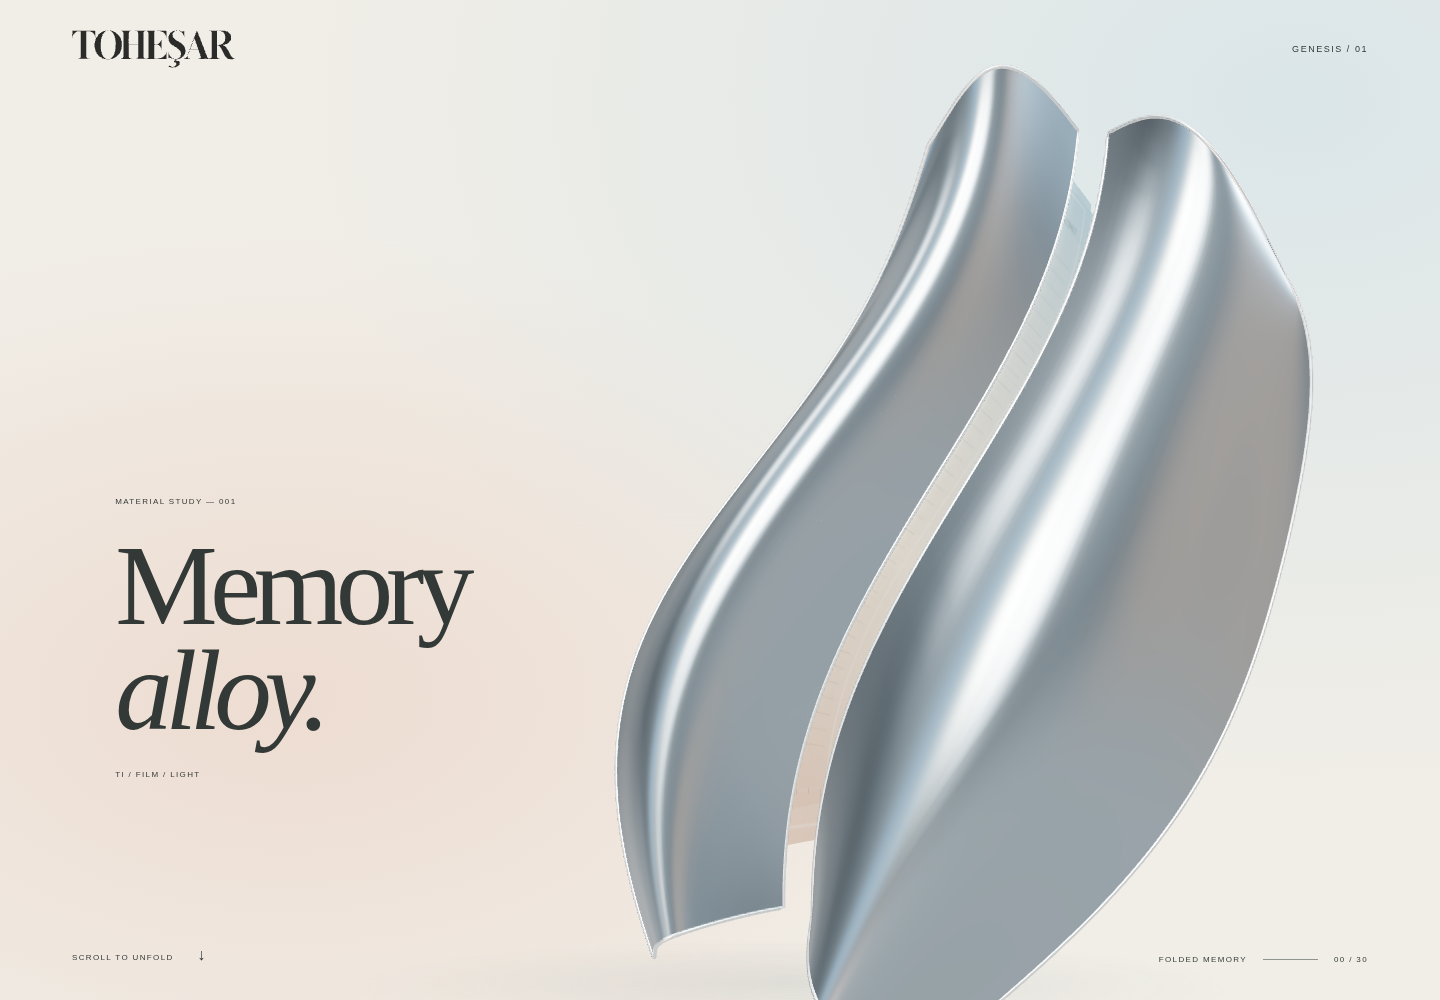
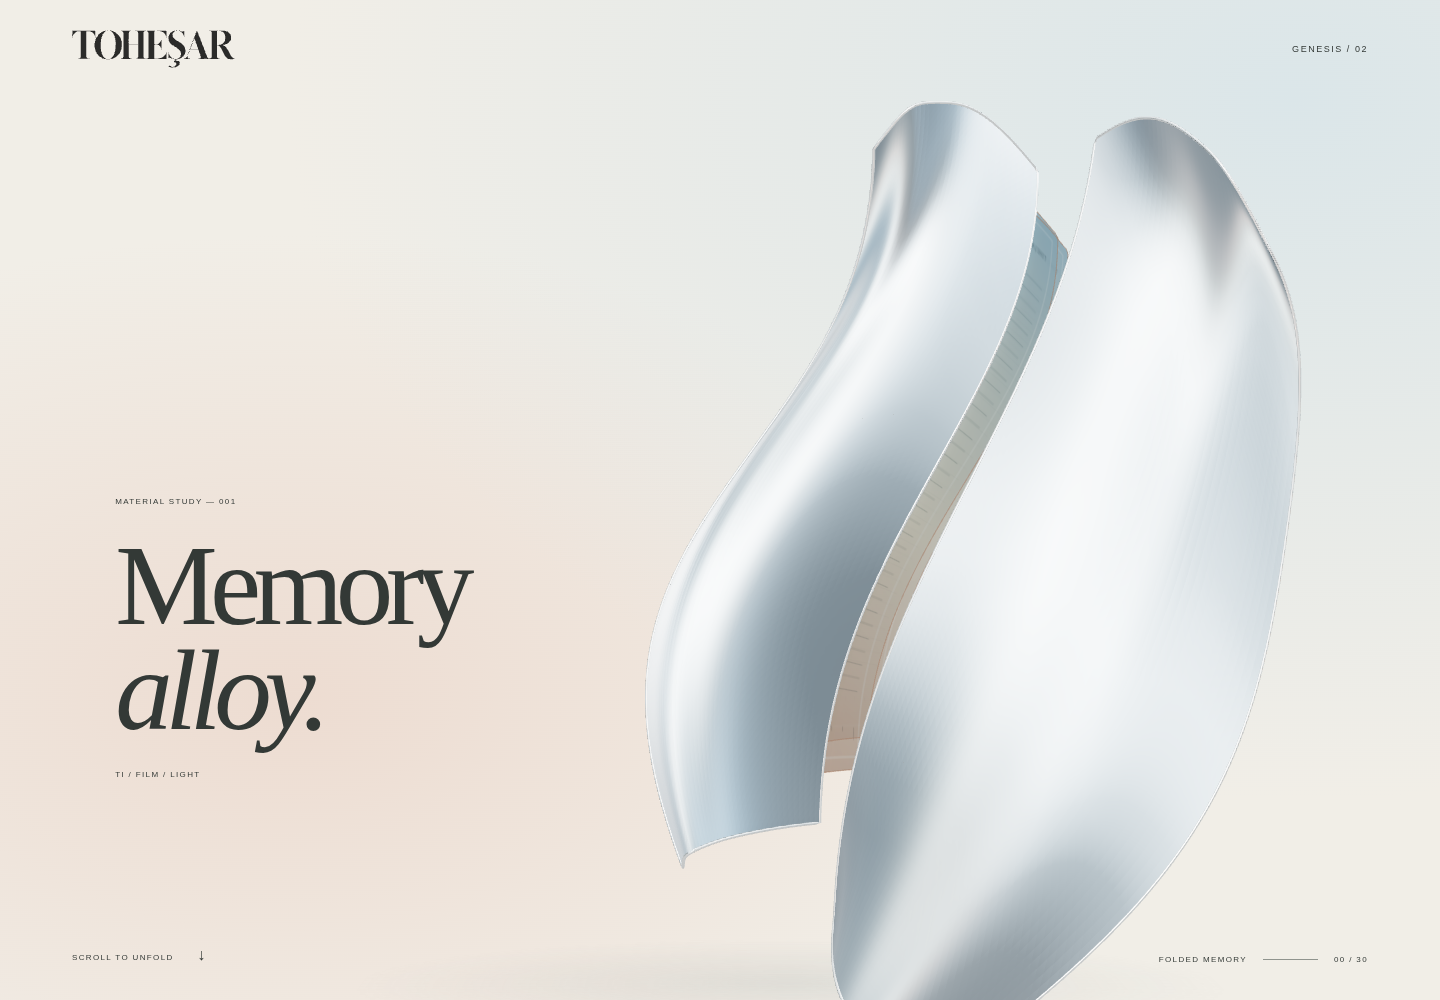
feat(genesis): C02 Scene 01-02 art direction refinement

Changed region(s): [[0.4062, 0.062, 0.9375, 1.0]]

diff --git a/genesis-01/src.js b/genesis-01/src.js
@@ -26,27 +26,37 @@ const room=new RoomEnvironment();
 const card=(color,x,y,z,sx,sy)=>{const m=new THREE.Mesh(new THREE.PlaneGeometry(sx,sy),new THREE.MeshBasicMaterial({color,side:THREE.DoubleSide}));m.position.set(x,y,z);m.lookAt(0,0,0);room.add(m);};
 card(0xc1e4ff,-3,2,2,3,7);card(0xf3c9ac,4,-1,1,2,6);card(0x252a30,1,1,-3,1.8,7);
 const env=pmrem.fromScene(room,.04);scene.environment=env.texture;room.dispose();pmrem.dispose();
-scene.add(new THREE.HemisphereLight(0xdceefa,0xd7b7a2,2.0));
-const key=new THREE.DirectionalLight(0xfff5e6,3.8);key.position.set(-3,5,6);scene.add(key);
-const sky=new THREE.DirectionalLight(0xb9d8ef,2.6);sky.position.set(4,2,-1);scene.add(sky);
-const peach=new THREE.DirectionalLight(0xf6baa0,1.3);peach.position.set(-2,-3,3);scene.add(peach);
+scene.add(new THREE.HemisphereLight(0xdceefa,0xd7b7a2,.75));
+const key=new THREE.DirectionalLight(0xfff5e6,2.2);key.position.set(-3,5,6);scene.add(key);
+const sky=new THREE.DirectionalLight(0xb9d8ef,1.4);sky.position.set(4,2,-1);scene.add(sky);
+const peach=new THREE.DirectionalLight(0xf6baa0,.8);peach.position.set(-2,-3,3);scene.add(peach);
 const sculpture=new THREE.Group();scene.add(sculpture);sculpture.rotation.set(-.09,-.32,-.18);
-const titanium=new THREE.MeshPhysicalMaterial({color:0x98a6ae,metalness:.93,roughness:.31,clearcoat:.25,clearcoatRoughness:.3,side:THREE.DoubleSide});
+const titanium=new THREE.MeshPhysicalMaterial({color:0x8a9ba5,metalness:.94,roughness:.38,anisotropy:.55,clearcoat:.2,clearcoatRoughness:.3,side:THREE.DoubleSide});
 const edgeMaterial=new THREE.MeshStandardMaterial({color:0xdde3e4,metalness:1,roughness:.12});
-const films=[];const morphs=[];
+// Deterministic hairline finish; no external texture or noise animation.
+const finish=new Uint8Array(256*256*4);
+for(let y=0;y<256;y++)for(let x=0;x<256;x++){
+ const i=(y*256+x)*4,n=126+22*Math.sin(x*17.13)+8*Math.sin(x*3.7+y*.19);
+ finish[i]=finish[i+1]=finish[i+2]=n;finish[i+3]=255;
+}
+const brushed=new THREE.DataTexture(finish,256,256);brushed.wrapS=brushed.wrapT=THREE.RepeatWrapping;brushed.repeat.set(3,1);brushed.needsUpdate=true;
+titanium.bumpMap=brushed;titanium.bumpScale=.008;
+const films=[];const morphs=[];const filmEdges=[];
 
 // s: left/right folio, u: spine→cut edge, v: foot→crown, open: authored morph target.
 function folio(s,u,v,open=0,layer=-1){
  const t=v*2-1;
- const w=s<0 ? 1.05 : 1.60;
+ const w=s<0 ? .98 : 1.65;
  const crown=s<0 ? .12 : -.30;
  const width=w*(.42+.64*Math.sin(v*Math.PI*.92)+.12*Math.sin(v*7));
- const seam=.35*Math.sin(t*2.1)+.10*t;
+ const seam=.25*Math.sin(t*2.1)+.10*t;
  let x=seam+s*(.085+width*u);
  let y=t*2.26 + crown*u + .20*Math.sin(u*Math.PI)*Math.sin(v*2.4) - .38*u*u*(1-v) - .42*u*u*Math.pow(v,5);
  // A pressed ridge and broad concave face: a folio with material memory.
  let z=.64*Math.sin(u*Math.PI*1.12)+.48*u*u+.32*Math.sin(v*4+u*2)-.12*t;
  z+=s<0 ? .18*u : -.19*u;
+ z+=.14*Math.tanh((u-.65)*9)+.32*Math.pow(v,5)*u;
+ if(s<0){y=y*.85+.13;x-=.13*Math.pow(v,4);}
  x+=s*open*(.24+u*.88);z-=open*(u*.85);y+=open*s*u*.14;
  if(layer>=0){
   x=seam+(x-seam)*(.86-layer*.045);
@@ -71,7 +81,7 @@ function border(s,open){
  for(let i=1;i<=44;i++)pts.push(folio(s,i/44,1,open));
  for(let j=91;j>=0;j--)pts.push(folio(s,1,j/92,open));
  for(let i=43;i>=0;i--)pts.push(folio(s,i/44,0,open));
- return new THREE.TubeGeometry(new THREE.CatmullRomCurve3(pts,true),320,.012,5,true);
+ return new THREE.TubeGeometry(new THREE.CatmullRomCurve3(pts,true),256,.009,5,true);
 }
 for(const s of [-1,1]){
  morphMesh(grid((u,v)=>folio(s,u,v)),grid((u,v)=>folio(s,u,v,1)),titanium);
@@ -81,7 +91,7 @@ for(const s of [-1,1]){
 function filmTexture(n){
  const c=document.createElement('canvas');c.width=512;c.height=1024;const ctx=c.getContext('2d');
  const g=ctx.createLinearGradient(0,0,512,1024);g.addColorStop(0,'#8faebf');g.addColorStop(.48,'#e2d6c4');g.addColorStop(1,'#c58e78');ctx.fillStyle=g;ctx.fillRect(0,0,512,1024);
- ctx.strokeStyle='rgba(76,95,102,.32)';ctx.lineWidth=1;
+ ctx.strokeStyle='rgba(45,67,75,.43)';ctx.lineWidth=1;
  for(let i=0;i<34;i++){const y=130+i*23;ctx.beginPath();ctx.moveTo(35,y);ctx.lineTo(470-(i%5)*13,y);ctx.stroke();}
  ctx.strokeStyle='rgba(255,255,255,.7)';ctx.strokeRect(22,22,468,980);
  ctx.fillStyle='rgba(61,76,80,.65)';ctx.font='14px monospace';ctx.fillText(`TOHEŞAR  /  MATERIAL ${String(n+1).padStart(2,'0')}`,39,75);
@@ -89,13 +99,19 @@ function filmTexture(n){
  const tex=new THREE.CanvasTexture(c);tex.colorSpace=THREE.SRGBColorSpace;return tex;
 }
 for(let k=0;k<5;k++){
- const mat=new THREE.MeshPhysicalMaterial({map:filmTexture(k),color:0xf0f3ee,metalness:.08,roughness:.24,transmission:.24,thickness:.055,ior:1.33,transparent:true,opacity:.86,side:THREE.DoubleSide,depthWrite:false});
+ const mat=new THREE.MeshPhysicalMaterial({map:filmTexture(k),color:0xb9c5c6,metalness:.08,roughness:.32,envMapIntensity:.45,transmission:.12,thickness:.055,ior:1.33,transparent:true,opacity:.86,side:THREE.DoubleSide,depthWrite:false});
+ mat.forceSinglePass=true;
  const s=k%2===0?1:-1;
  const closed=grid((u,v)=>folio(s,u,v,0,k),24,56);
- const opened=grid((u,v)=>{
+ const openPoint=(u,v)=>{
   const p=folio(s,u,v,1,k);p.x=s*(.14+k*.035+u*(1.8+k*.14));p.z=-.6-k*1.3-u*.9+Math.sin(u*Math.PI)*.16;p.y*=1.15;return p;
- },24,56);
+ };
+ const opened=grid(openPoint,24,56);
  const mesh=morphMesh(closed,opened,mat);mesh.renderOrder=5-k;films.push(mesh);
+ const perimeter=fn=>{const pts=[];for(let j=0;j<=48;j++)pts.push(fn(0,j/48));for(let i=1;i<=24;i++)pts.push(fn(i/24,1));for(let j=47;j>=0;j--)pts.push(fn(1,j/48));for(let i=23;i>=0;i--)pts.push(fn(i/24,0));return new THREE.TubeGeometry(new THREE.CatmullRomCurve3(pts,true),192,.004,3,true);};
+ const a=perimeter((u,v)=>folio(s,u,v,0,k)),b=perimeter(openPoint);
+ a.morphAttributes.position=[b.attributes.position];a.morphAttributes.normal=[b.attributes.normal];
+ const rim=new THREE.Mesh(a,new THREE.MeshBasicMaterial({color:k%2?0x94705e:0x6b8e9f,transparent:true,opacity:.5}));sculpture.add(rim);filmEdges.push(rim);
 }
 // Wide, diffuse contact shadow; no expensive realtime shadow pass.
 const shadowCanvas=document.createElement('canvas');shadowCanvas.width=128;shadowCanvas.height=128;
@@ -114,10 +130,10 @@ function request(){if(!raf&&!document.hidden&&!contextLost)raf=requestAnimationF
 function pose(p){
  const opening=ease(.17,.235,p),split=ease(.23,.27,p),pass=ease(.27,.30,p);
  for(let i=0;i<4;i++)morphs[i].morphTargetInfluences[0]=opening;
- for(const mesh of films)mesh.morphTargetInfluences[0]=split;
+ for(const mesh of [...films,...filmEdges])mesh.morphTargetInfluences[0]=split;
  // The artifact stays in place. The camera crosses its z-depth at the final beat.
- sculpture.position.set(mobile?.82:1.22,mobile?1.0:.05,0);
- sculpture.scale.setScalar(mobile?.86:1);
+ sculpture.position.set(mobile?.66:1.22,mobile?.62:.05,0);
+ sculpture.scale.setScalar(mobile?.84:1);
  sculpture.rotation.y=THREE.MathUtils.lerp(-.32,0,split);
  sculpture.rotation.z=THREE.MathUtils.lerp(-.18,-.035,split);
  const startZ=mobile?10.2:9.5;
@@ -129,7 +145,8 @@ function pose(p){
  document.querySelector('#phase').textContent=p<.17?'FOLDED MEMORY':p<.23?'OPENING':p<.27?'LAYER SEPARATION':'WITHIN THE LAYERS';
  document.querySelector('#percent').textContent=`${String(Math.round(p*100)).padStart(2,'0')} / 30`;
 }
-function draw(){raf=0;progress+= (target-progress)*.15;if(Math.abs(target-progress)<.00002)progress=target;pose(progress);renderer.render(scene,camera);if(progress!==target)request();}
+let lastFrame=0;
+function draw(now){raf=0;const dt=lastFrame?Math.min((now-lastFrame)/1000,.1):1/60;lastFrame=now;progress+= (target-progress)*(1-Math.exp(-12*dt));if(Math.abs(target-progress)<.00002)progress=target;pose(progress);renderer.render(scene,camera);if(progress!==target)request();}
 addEventListener('scroll',onScroll,{passive:true});addEventListener('resize',measure);visualViewport?.addEventListener('resize',measure);
 reduced.addEventListener('change',onScroll);document.addEventListener('visibilitychange',request);
 renderer.domElement.addEventListener('webglcontextlost',e=>{e.preventDefault();contextLost=true;fallback.hidden=false;});

diff --git a/genesis-01/index.html b/genesis-01/index.html
@@ -1,15 +1,15 @@
 <!doctype html>
 <html lang="en">
-<head><meta charset="UTF-8"><meta name="viewport" content="width=device-width, initial-scale=1, viewport-fit=cover"><meta name="theme-color" content="#f1eee7"><title>TOHEŞAR — Genesis 01</title><link rel="stylesheet" href="/style.css"></head>
+<head><meta charset="UTF-8"><meta name="viewport" content="width=device-width, initial-scale=1, viewport-fit=cover"><meta name="theme-color" content="#f1eee7"><title>TOHEŞAR — Genesis 02</title><link rel="stylesheet" href="/style.css"></head>
 <body>
 <main aria-label="Memory Alloy, an interactive sculpture">
 <div id="stage" role="img" aria-label="An asymmetric folded titanium archive opens into five translucent memory layers."></div>
-<header><img src="./assets/wordmark.svg" width="164" height="38" alt="TOHEŞAR"><span>GENESIS / 01</span></header>
+<header><img src="./assets/wordmark.svg" width="164" height="38" alt="TOHEŞAR"><span>GENESIS / 02</span></header>
 <div class="caption"><span class="eyebrow">MATERIAL STUDY — 001</span><h1>Memory<br><em>alloy.</em></h1><p>TI / FILM / LIGHT</p></div>
 <div class="annotation" aria-hidden="true"><span id="phase">FOLDED MEMORY</span><i></i><span id="percent">00 / 30</span></div>
 <div class="scroll-hint">SCROLL TO UNFOLD <span>↓</span></div>
-<div id="fallback" hidden><img src="./assets/poster.png" alt="Memory Alloy — folded titanium and translucent film"><p>MEMORY ALLOY / GENESIS 01<br>Still study — interactive rendering unavailable.</p></div>
-<noscript><p class="no-js">MEMORY ALLOY / GENESIS 01 — Enable JavaScript to unfold the sculpture.</p></noscript>
+<div id="fallback" hidden><img src="./assets/poster.png" alt="Memory Alloy — folded titanium and translucent film"><p>MEMORY ALLOY / GENESIS 02<br>Still study — interactive rendering unavailable.</p></div>
+<noscript><p class="no-js">MEMORY ALLOY / GENESIS 02 — Enable JavaScript to unfold the sculpture.</p></noscript>
 </main>
 <script type="module" src="/src.js"></script>
 </body></html>
